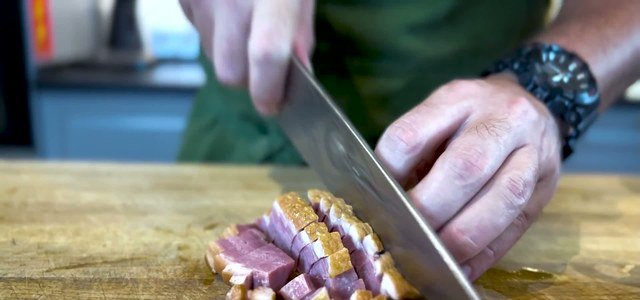
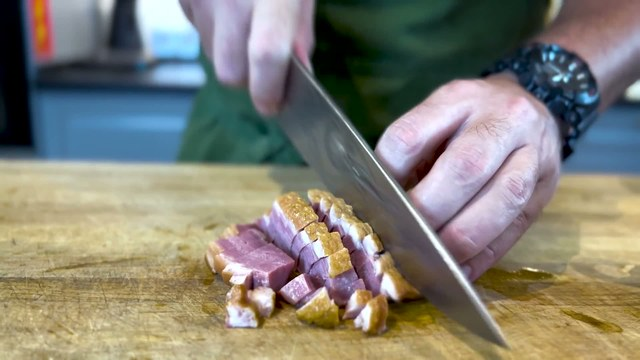
fix(ui): stop cropping images - the hero shows the whole picture
Two causes, one per layer.

CSS: the detail hero framed the photo in a fixed 3:2 box with
object-fit: cover, so anything wider lost its sides - the carbonara step
collage (1928x728, 2.65:1) came out with roughly 43% of its width cut off.
The frame keeps its 3:2 shape and its background; the image is now
object-fit: contain and fills what it can.

Source: the six step photos were cropped by me, not by CSS - they were
sliced out of the captioned collage at 640x300, which took 60px off the
bottom of every frame. Re-extracted from the video at the same six
timestamps, now the full 640x360 frame with no caption baked in.

The list thumbnail and the circular editor preview keep cover on purpose:
at 40px and 84px they are icon-scale slots, where a letterboxed strip would
show less of the dish, not more.

diff --git a/public/styles/recipes.css b/public/styles/recipes.css
@@ -361,9 +361,11 @@
 }
 
 /* Kopfbild des Details (R16): das selbst hochgeladene Bild, 3:2. Der RAHMEN
- * traegt das Verhaeltnis, das Bild fuellt ihn per `object-fit: cover` - es wird
- * beschnitten, nie gestaucht (ein Hochformat-Foto verliert oben und unten,
- * statt breitgezogen zu werden). Ohne Bild gibt es den Rahmen nicht
+ * traegt das Verhaeltnis und die Flaechen, die ein anderes Verhaeltnis nicht
+ * fuellt - das Bild zeigt sich darin VOLLSTAENDIG (object-fit: contain).
+ * HAUSHALTSREGEL 2026-10-08: kein Bild wird beschnitten. `cover` war es vorher;
+ * ein Querformat von 2,65:1 (ein Schritt-Collage) verlor dabei gut die Haelfte
+ * der Breite, und ein Hochformat oben/unten. Ohne Bild gibt es den Rahmen nicht
  * (utils/recipe-thumb.js), also auch keinen grauen Block. Auf breiter Flaeche
  * begrenzt, damit das Bild die Zutaten nicht aus dem ersten Bildschirm schiebt. */
 .recipe-detail__hero {
@@ -379,7 +381,7 @@
   display: block;
   width: 100%;
   height: 100%;
-  object-fit: cover;
+  object-fit: contain;
 }
 
 /* OHNE BILD: EIN FLACHES BAND IM KUECHENTON (Critique R18, 2026-10-07;
